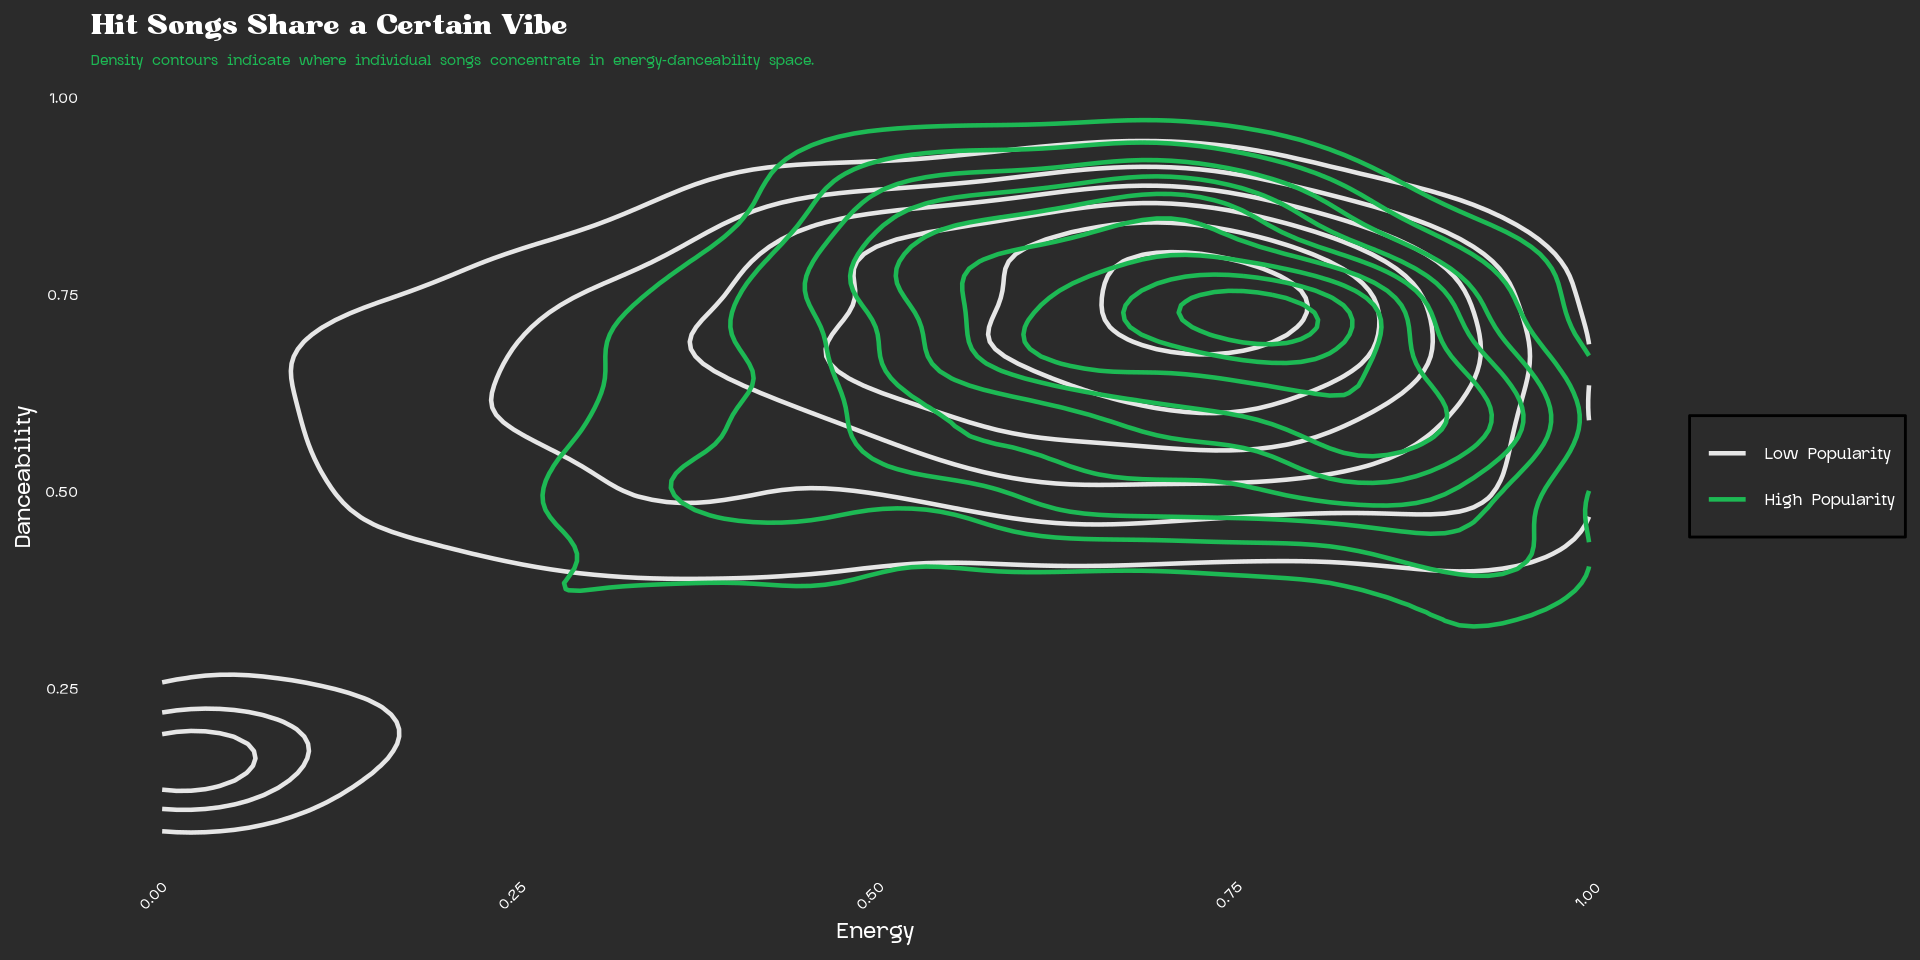
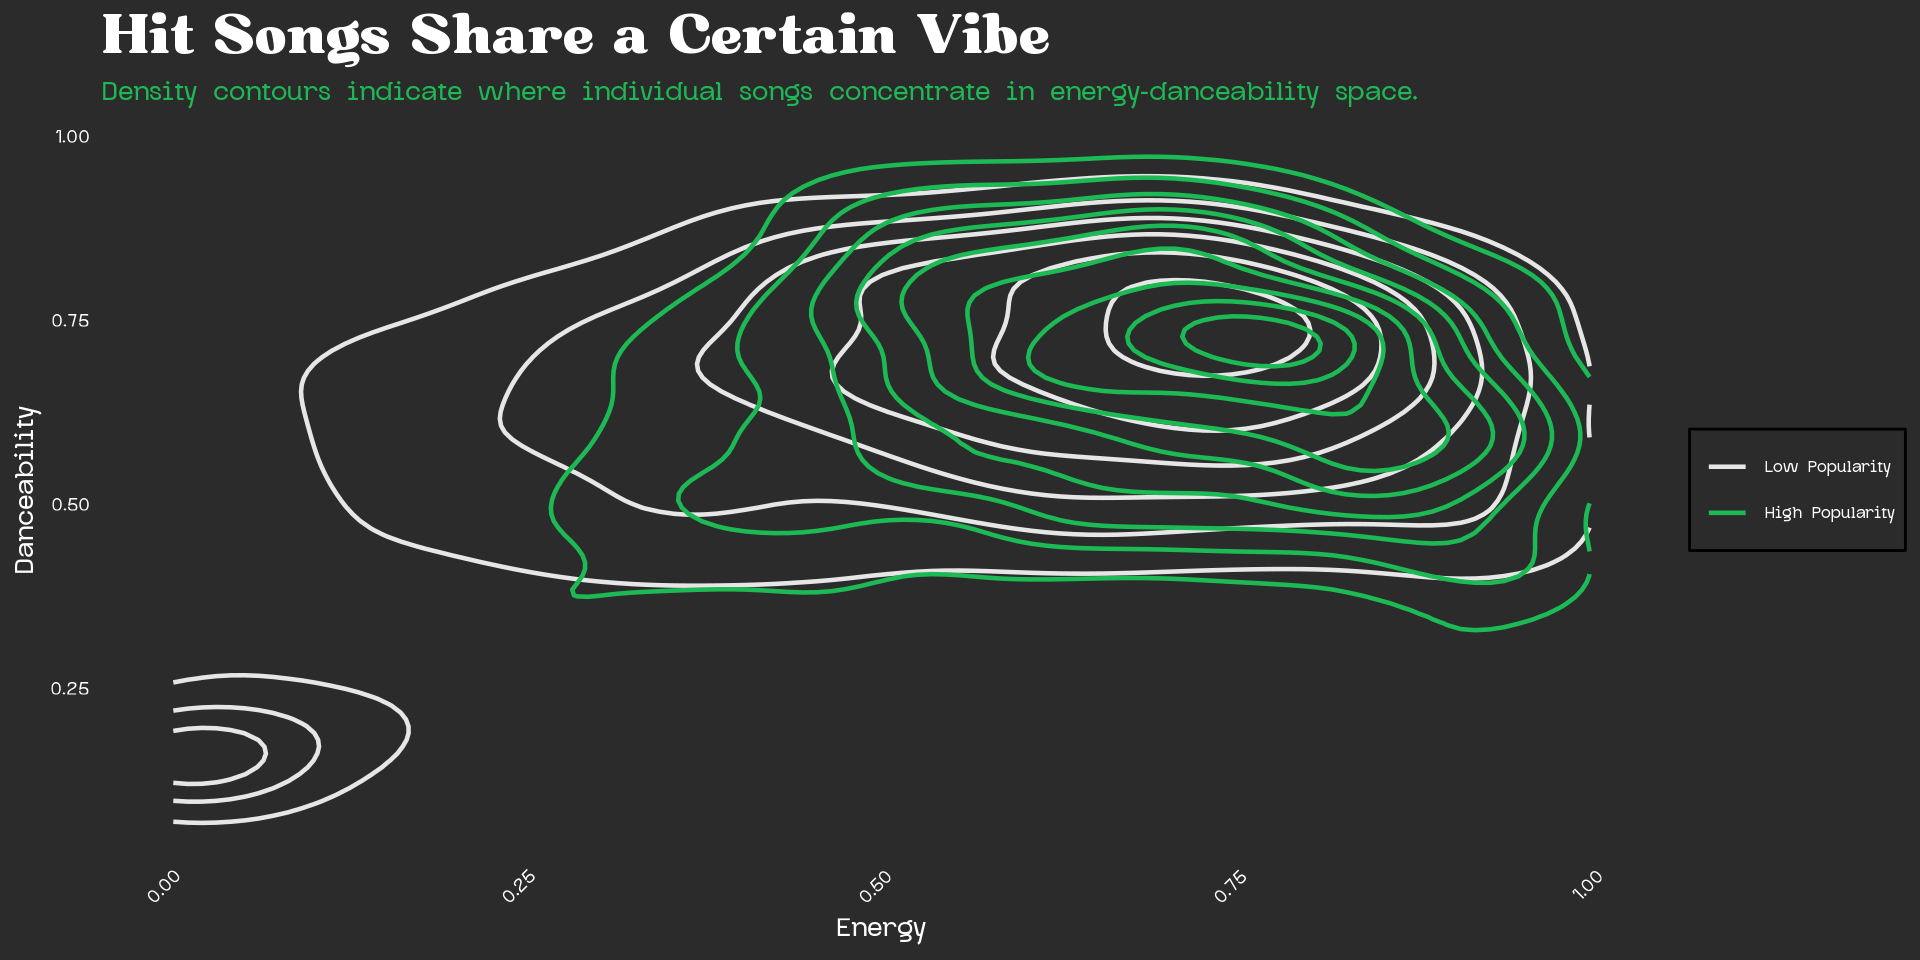
Updated plot title and subtitle sizes

diff --git a/index.html b/index.html
@@ -339,11 +339,11 @@ code span.wa { color: #60a0b0; font-weight: bold; font-style: italic; } /* Warni
 <span id="cb8-59"><a href="#cb8-59" aria-hidden="true" tabindex="-1"></a>  <span class="fu">theme</span>(</span>
 <span id="cb8-60"><a href="#cb8-60" aria-hidden="true" tabindex="-1"></a>    <span class="at">plot.background =</span> <span class="fu">element_rect</span>(<span class="at">fill =</span> <span class="st">"#2b2b2b"</span>, <span class="at">color =</span> <span class="cn">NA</span>),</span>
 <span id="cb8-61"><a href="#cb8-61" aria-hidden="true" tabindex="-1"></a>    <span class="at">panel.background =</span> <span class="fu">element_rect</span>(<span class="at">fill =</span> <span class="st">"#2b2b2b"</span>, <span class="at">color =</span> <span class="cn">NA</span>),</span>
-<span id="cb8-62"><a href="#cb8-62" aria-hidden="true" tabindex="-1"></a>    <span class="at">plot.title =</span> <span class="fu">element_text</span>(<span class="at">size =</span> <span class="dv">20</span>, <span class="at">color =</span> <span class="st">"white"</span>, <span class="at">face =</span> <span class="st">"bold"</span>, <span class="at">family =</span> <span class="st">"Bugaki"</span>),</span>
-<span id="cb8-63"><a href="#cb8-63" aria-hidden="true" tabindex="-1"></a>    <span class="at">plot.subtitle =</span> <span class="fu">element_text</span>(<span class="at">color =</span> <span class="st">"#1DB954"</span>, <span class="at">size =</span> <span class="dv">8</span>, <span class="at">face =</span> <span class="st">"bold"</span>, <span class="at">family =</span> <span class="st">"Glock Grotesk"</span>),</span>
+<span id="cb8-62"><a href="#cb8-62" aria-hidden="true" tabindex="-1"></a>    <span class="at">plot.title =</span> <span class="fu">element_text</span>(<span class="at">size =</span> <span class="dv">40</span>, <span class="at">color =</span> <span class="st">"white"</span>, <span class="at">face =</span> <span class="st">"bold"</span>, <span class="at">family =</span> <span class="st">"Bugaki"</span>),</span>
+<span id="cb8-63"><a href="#cb8-63" aria-hidden="true" tabindex="-1"></a>    <span class="at">plot.subtitle =</span> <span class="fu">element_text</span>(<span class="at">color =</span> <span class="st">"#1DB954"</span>, <span class="at">size =</span> <span class="dv">15</span>, <span class="at">face =</span> <span class="st">"bold"</span>, <span class="at">family =</span> <span class="st">"Glock Grotesk"</span>),</span>
 <span id="cb8-64"><a href="#cb8-64" aria-hidden="true" tabindex="-1"></a>    <span class="at">axis.text.x =</span> <span class="fu">element_text</span>(<span class="at">angle =</span> <span class="dv">45</span>, <span class="at">hjust =</span> <span class="dv">1</span>, </span>
-<span id="cb8-65"><a href="#cb8-65" aria-hidden="true" tabindex="-1"></a>                                <span class="at">color =</span> <span class="st">"white"</span>, <span class="at">size =</span> <span class="dv">8</span>, <span class="at">face =</span> <span class="st">"bold"</span>, <span class="at">family =</span> <span class="st">"Glock Grotesk"</span>),</span>
-<span id="cb8-66"><a href="#cb8-66" aria-hidden="true" tabindex="-1"></a>    <span class="at">axis.text.y =</span> <span class="fu">element_text</span>(<span class="at">color =</span> <span class="st">"white"</span>, <span class="at">size =</span> <span class="dv">8</span>, <span class="at">face =</span> <span class="st">"bold"</span>, <span class="at">family =</span> <span class="st">"Glock Grotesk"</span>),</span>
+<span id="cb8-65"><a href="#cb8-65" aria-hidden="true" tabindex="-1"></a>                                <span class="at">color =</span> <span class="st">"white"</span>, <span class="at">size =</span> <span class="dv">15</span>, <span class="at">face =</span> <span class="st">"bold"</span>, <span class="at">family =</span> <span class="st">"Glock Grotesk"</span>),</span>
+<span id="cb8-66"><a href="#cb8-66" aria-hidden="true" tabindex="-1"></a>    <span class="at">axis.text.y =</span> <span class="fu">element_text</span>(<span class="at">color =</span> <span class="st">"white"</span>, <span class="at">size =</span><span class="dv">15</span>, <span class="at">face =</span> <span class="st">"bold"</span>, <span class="at">family =</span> <span class="st">"Glock Grotesk"</span>),</span>
 <span id="cb8-67"><a href="#cb8-67" aria-hidden="true" tabindex="-1"></a>    <span class="at">legend.background =</span> <span class="fu">element_rect</span>(<span class="at">fill =</span> <span class="st">"#2b2b2b"</span>),</span>
 <span id="cb8-68"><a href="#cb8-68" aria-hidden="true" tabindex="-1"></a>    <span class="at">legend.text =</span> <span class="fu">element_text</span>(<span class="at">color =</span> <span class="st">"white"</span>, <span class="at">face =</span> <span class="st">"bold"</span>, <span class="at">family =</span> <span class="st">"Glock Grotesk"</span>),</span>
 <span id="cb8-69"><a href="#cb8-69" aria-hidden="true" tabindex="-1"></a>    <span class="at">legend.title =</span> <span class="fu">element_text</span>(<span class="at">color =</span> <span class="st">"white"</span>, <span class="at">family =</span> <span class="st">"Glock Grotesk"</span>),</span>
@@ -381,12 +381,12 @@ code span.wa { color: #60a0b0; font-weight: bold; font-style: italic; } /* Warni
 <span id="cb9-19"><a href="#cb9-19" aria-hidden="true" tabindex="-1"></a>  <span class="fu">theme</span>(</span>
 <span id="cb9-20"><a href="#cb9-20" aria-hidden="true" tabindex="-1"></a>    <span class="at">plot.background    =</span> <span class="fu">element_rect</span>(<span class="at">fill =</span> <span class="st">"#2b2b2b"</span>, <span class="at">color =</span> <span class="cn">NA</span>),</span>
 <span id="cb9-21"><a href="#cb9-21" aria-hidden="true" tabindex="-1"></a>    <span class="at">panel.background   =</span> <span class="fu">element_rect</span>(<span class="at">fill =</span> <span class="st">"#2b2b2b"</span>, <span class="at">color =</span> <span class="cn">NA</span>),</span>
-<span id="cb9-22"><a href="#cb9-22" aria-hidden="true" tabindex="-1"></a>    <span class="at">plot.title         =</span> <span class="fu">element_text</span>(<span class="at">size =</span> <span class="dv">20</span>, <span class="at">color =</span> <span class="st">"white"</span>,   <span class="at">face =</span> <span class="st">"bold"</span>, <span class="at">family =</span> <span class="st">"Bugaki"</span>),</span>
-<span id="cb9-23"><a href="#cb9-23" aria-hidden="true" tabindex="-1"></a>    <span class="at">plot.subtitle      =</span> <span class="fu">element_text</span>(<span class="at">size =</span> <span class="dv">8</span>, <span class="at">color =</span> <span class="st">"#1DB954"</span>, <span class="at">face =</span> <span class="st">"bold"</span>, <span class="at">family =</span> <span class="st">"Glock Grotesk"</span>),</span>
-<span id="cb9-24"><a href="#cb9-24" aria-hidden="true" tabindex="-1"></a>    <span class="at">axis.title.x       =</span> <span class="fu">element_text</span>(<span class="at">size =</span> <span class="dv">13</span>, <span class="at">color =</span> <span class="st">"white"</span>,   <span class="at">face =</span> <span class="st">"bold"</span>, <span class="at">family =</span> <span class="st">"Glock Grotesk"</span>),</span>
-<span id="cb9-25"><a href="#cb9-25" aria-hidden="true" tabindex="-1"></a>    <span class="at">axis.title.y       =</span> <span class="fu">element_text</span>(<span class="at">size =</span> <span class="dv">13</span>, <span class="at">color =</span> <span class="st">"white"</span>,   <span class="at">face =</span> <span class="st">"bold"</span>, <span class="at">family =</span> <span class="st">"Glock Grotesk"</span>),</span>
-<span id="cb9-26"><a href="#cb9-26" aria-hidden="true" tabindex="-1"></a>    <span class="at">axis.text.x        =</span> <span class="fu">element_text</span>(<span class="at">size =</span> <span class="dv">8</span>, <span class="at">color =</span> <span class="st">"white"</span>,   <span class="at">face =</span> <span class="st">"bold"</span>, <span class="at">family =</span> <span class="st">"Glock Grotesk"</span>, <span class="at">angle =</span> <span class="dv">45</span>, <span class="at">hjust =</span> <span class="dv">1</span>),</span>
-<span id="cb9-27"><a href="#cb9-27" aria-hidden="true" tabindex="-1"></a>    <span class="at">axis.text.y        =</span> <span class="fu">element_text</span>(<span class="at">size =</span> <span class="dv">8</span>, <span class="at">color =</span> <span class="st">"white"</span>,   <span class="at">face =</span> <span class="st">"bold"</span>, <span class="at">family =</span> <span class="st">"Glock Grotesk"</span>),</span>
+<span id="cb9-22"><a href="#cb9-22" aria-hidden="true" tabindex="-1"></a>    <span class="at">plot.title         =</span> <span class="fu">element_text</span>(<span class="at">size =</span> <span class="dv">40</span>, <span class="at">color =</span> <span class="st">"white"</span>,   <span class="at">face =</span> <span class="st">"bold"</span>, <span class="at">family =</span> <span class="st">"Bugaki"</span>),</span>
+<span id="cb9-23"><a href="#cb9-23" aria-hidden="true" tabindex="-1"></a>    <span class="at">plot.subtitle      =</span> <span class="fu">element_text</span>(<span class="at">size =</span> <span class="dv">15</span>, <span class="at">color =</span> <span class="st">"#1DB954"</span>, <span class="at">face =</span> <span class="st">"bold"</span>, <span class="at">family =</span> <span class="st">"Glock Grotesk"</span>),</span>
+<span id="cb9-24"><a href="#cb9-24" aria-hidden="true" tabindex="-1"></a>    <span class="at">axis.title.x       =</span> <span class="fu">element_text</span>(<span class="at">size =</span> <span class="dv">15</span>, <span class="at">color =</span> <span class="st">"white"</span>,   <span class="at">face =</span> <span class="st">"bold"</span>, <span class="at">family =</span> <span class="st">"Glock Grotesk"</span>),</span>
+<span id="cb9-25"><a href="#cb9-25" aria-hidden="true" tabindex="-1"></a>    <span class="at">axis.title.y       =</span> <span class="fu">element_text</span>(<span class="at">size =</span> <span class="dv">15</span>, <span class="at">color =</span> <span class="st">"white"</span>,   <span class="at">face =</span> <span class="st">"bold"</span>, <span class="at">family =</span> <span class="st">"Glock Grotesk"</span>),</span>
+<span id="cb9-26"><a href="#cb9-26" aria-hidden="true" tabindex="-1"></a>    <span class="at">axis.text.x        =</span> <span class="fu">element_text</span>(<span class="at">size =</span> <span class="dv">10</span>, <span class="at">color =</span> <span class="st">"white"</span>,   <span class="at">face =</span> <span class="st">"bold"</span>, <span class="at">family =</span> <span class="st">"Glock Grotesk"</span>, <span class="at">angle =</span> <span class="dv">45</span>, <span class="at">hjust =</span> <span class="dv">1</span>),</span>
+<span id="cb9-27"><a href="#cb9-27" aria-hidden="true" tabindex="-1"></a>    <span class="at">axis.text.y        =</span> <span class="fu">element_text</span>(<span class="at">size =</span> <span class="dv">10</span>, <span class="at">color =</span> <span class="st">"white"</span>,   <span class="at">face =</span> <span class="st">"bold"</span>, <span class="at">family =</span> <span class="st">"Glock Grotesk"</span>),</span>
 <span id="cb9-28"><a href="#cb9-28" aria-hidden="true" tabindex="-1"></a>    <span class="at">legend.background  =</span> <span class="fu">element_rect</span>(<span class="at">fill =</span> <span class="st">"#2b2b2b"</span>),</span>
 <span id="cb9-29"><a href="#cb9-29" aria-hidden="true" tabindex="-1"></a>    <span class="at">legend.text        =</span> <span class="fu">element_text</span>(<span class="at">color =</span> <span class="st">"white"</span>, <span class="at">face =</span> <span class="st">"bold"</span>, <span class="at">family =</span> <span class="st">"Glock Grotesk"</span>),</span>
 <span id="cb9-30"><a href="#cb9-30" aria-hidden="true" tabindex="-1"></a>    <span class="at">legend.title       =</span> <span class="fu">element_text</span>(<span class="at">color =</span> <span class="st">"white"</span>, <span class="at">family =</span> <span class="st">"Glock Grotesk"</span>),</span>
@@ -496,12 +496,12 @@ code span.wa { color: #60a0b0; font-weight: bold; font-style: italic; } /* Warni
 <span id="cb10-91"><a href="#cb10-91" aria-hidden="true" tabindex="-1"></a>  <span class="fu">theme</span>(</span>
 <span id="cb10-92"><a href="#cb10-92" aria-hidden="true" tabindex="-1"></a>    <span class="at">plot.background  =</span> <span class="fu">element_rect</span>(<span class="at">fill =</span> <span class="st">"#2b2b2b"</span>, <span class="at">color =</span> <span class="cn">NA</span>),</span>
 <span id="cb10-93"><a href="#cb10-93" aria-hidden="true" tabindex="-1"></a>    <span class="at">panel.background =</span> <span class="fu">element_rect</span>(<span class="at">fill =</span> <span class="st">"#2b2b2b"</span>, <span class="at">color =</span> <span class="cn">NA</span>),</span>
-<span id="cb10-94"><a href="#cb10-94" aria-hidden="true" tabindex="-1"></a>    <span class="at">plot.title       =</span> <span class="fu">element_text</span>(<span class="at">size =</span> <span class="dv">20</span>, <span class="at">color =</span> <span class="st">"white"</span>,   <span class="at">face =</span> <span class="st">"bold"</span>, <span class="at">family =</span> <span class="st">"Bugaki"</span>),</span>
-<span id="cb10-95"><a href="#cb10-95" aria-hidden="true" tabindex="-1"></a>    <span class="at">plot.subtitle    =</span> <span class="fu">element_text</span>(<span class="at">size =</span> <span class="dv">8</span>, <span class="at">color =</span> <span class="st">"#1DB954"</span>, <span class="at">face =</span> <span class="st">"bold"</span>, <span class="at">family =</span> <span class="st">"Glock Grotesk"</span>),</span>
-<span id="cb10-96"><a href="#cb10-96" aria-hidden="true" tabindex="-1"></a>    <span class="at">axis.title.x     =</span> <span class="fu">element_text</span>(<span class="at">size =</span> <span class="dv">13</span>, <span class="at">color =</span> <span class="st">"white"</span>,   <span class="at">face =</span> <span class="st">"bold"</span>, <span class="at">family =</span> <span class="st">"Glock Grotesk"</span>),</span>
-<span id="cb10-97"><a href="#cb10-97" aria-hidden="true" tabindex="-1"></a>    <span class="at">axis.title.y     =</span> <span class="fu">element_text</span>(<span class="at">size =</span> <span class="dv">13</span>, <span class="at">color =</span> <span class="st">"white"</span>,   <span class="at">face =</span> <span class="st">"bold"</span>, <span class="at">family =</span> <span class="st">"Glock Grotesk"</span>),</span>
-<span id="cb10-98"><a href="#cb10-98" aria-hidden="true" tabindex="-1"></a>    <span class="at">axis.text.x      =</span> <span class="fu">element_text</span>(<span class="at">size =</span> <span class="dv">8</span>, <span class="at">color =</span> <span class="st">"white"</span>,   <span class="at">face =</span> <span class="st">"bold"</span>, <span class="at">family =</span> <span class="st">"Glock Grotesk"</span>, <span class="at">angle =</span> <span class="dv">45</span>, <span class="at">hjust =</span> <span class="dv">1</span>),</span>
-<span id="cb10-99"><a href="#cb10-99" aria-hidden="true" tabindex="-1"></a>    <span class="at">axis.text.y      =</span> <span class="fu">element_text</span>(<span class="at">size =</span> <span class="dv">8</span>, <span class="at">color =</span> <span class="st">"white"</span>,   <span class="at">face =</span> <span class="st">"bold"</span>, <span class="at">family =</span> <span class="st">"Glock Grotesk"</span>),</span>
+<span id="cb10-94"><a href="#cb10-94" aria-hidden="true" tabindex="-1"></a>    <span class="at">plot.title       =</span> <span class="fu">element_text</span>(<span class="at">size =</span> <span class="dv">40</span>, <span class="at">color =</span> <span class="st">"white"</span>,   <span class="at">face =</span> <span class="st">"bold"</span>, <span class="at">family =</span> <span class="st">"Bugaki"</span>),</span>
+<span id="cb10-95"><a href="#cb10-95" aria-hidden="true" tabindex="-1"></a>    <span class="at">plot.subtitle    =</span> <span class="fu">element_text</span>(<span class="at">size =</span> <span class="dv">15</span>, <span class="at">color =</span> <span class="st">"#1DB954"</span>, <span class="at">face =</span> <span class="st">"bold"</span>, <span class="at">family =</span> <span class="st">"Glock Grotesk"</span>),</span>
+<span id="cb10-96"><a href="#cb10-96" aria-hidden="true" tabindex="-1"></a>    <span class="at">axis.title.x     =</span> <span class="fu">element_text</span>(<span class="at">size =</span> <span class="dv">15</span>, <span class="at">color =</span> <span class="st">"white"</span>,   <span class="at">face =</span> <span class="st">"bold"</span>, <span class="at">family =</span> <span class="st">"Glock Grotesk"</span>),</span>
+<span id="cb10-97"><a href="#cb10-97" aria-hidden="true" tabindex="-1"></a>    <span class="at">axis.title.y     =</span> <span class="fu">element_text</span>(<span class="at">size =</span> <span class="dv">15</span>, <span class="at">color =</span> <span class="st">"white"</span>,   <span class="at">face =</span> <span class="st">"bold"</span>, <span class="at">family =</span> <span class="st">"Glock Grotesk"</span>),</span>
+<span id="cb10-98"><a href="#cb10-98" aria-hidden="true" tabindex="-1"></a>    <span class="at">axis.text.x      =</span> <span class="fu">element_text</span>(<span class="at">size =</span> <span class="dv">10</span>, <span class="at">color =</span> <span class="st">"white"</span>,   <span class="at">face =</span> <span class="st">"bold"</span>, <span class="at">family =</span> <span class="st">"Glock Grotesk"</span>, <span class="at">angle =</span> <span class="dv">45</span>, <span class="at">hjust =</span> <span class="dv">1</span>),</span>
+<span id="cb10-99"><a href="#cb10-99" aria-hidden="true" tabindex="-1"></a>    <span class="at">axis.text.y      =</span> <span class="fu">element_text</span>(<span class="at">size =</span> <span class="dv">10</span>, <span class="at">color =</span> <span class="st">"white"</span>,   <span class="at">face =</span> <span class="st">"bold"</span>, <span class="at">family =</span> <span class="st">"Glock Grotesk"</span>),</span>
 <span id="cb10-100"><a href="#cb10-100" aria-hidden="true" tabindex="-1"></a>    <span class="at">legend.background =</span> <span class="fu">element_rect</span>(<span class="at">fill =</span> <span class="st">"#2b2b2b"</span>),</span>
 <span id="cb10-101"><a href="#cb10-101" aria-hidden="true" tabindex="-1"></a>    <span class="at">legend.text      =</span> <span class="fu">element_text</span>(<span class="at">color =</span> <span class="st">"white"</span>, <span class="at">face =</span> <span class="st">"bold"</span>, <span class="at">family =</span> <span class="st">"Glock Grotesk"</span>),</span>
 <span id="cb10-102"><a href="#cb10-102" aria-hidden="true" tabindex="-1"></a>    <span class="at">legend.title     =</span> <span class="fu">element_text</span>(<span class="at">color =</span> <span class="st">"white"</span>, <span class="at">family =</span> <span class="st">"Glock Grotesk"</span>),</span>
